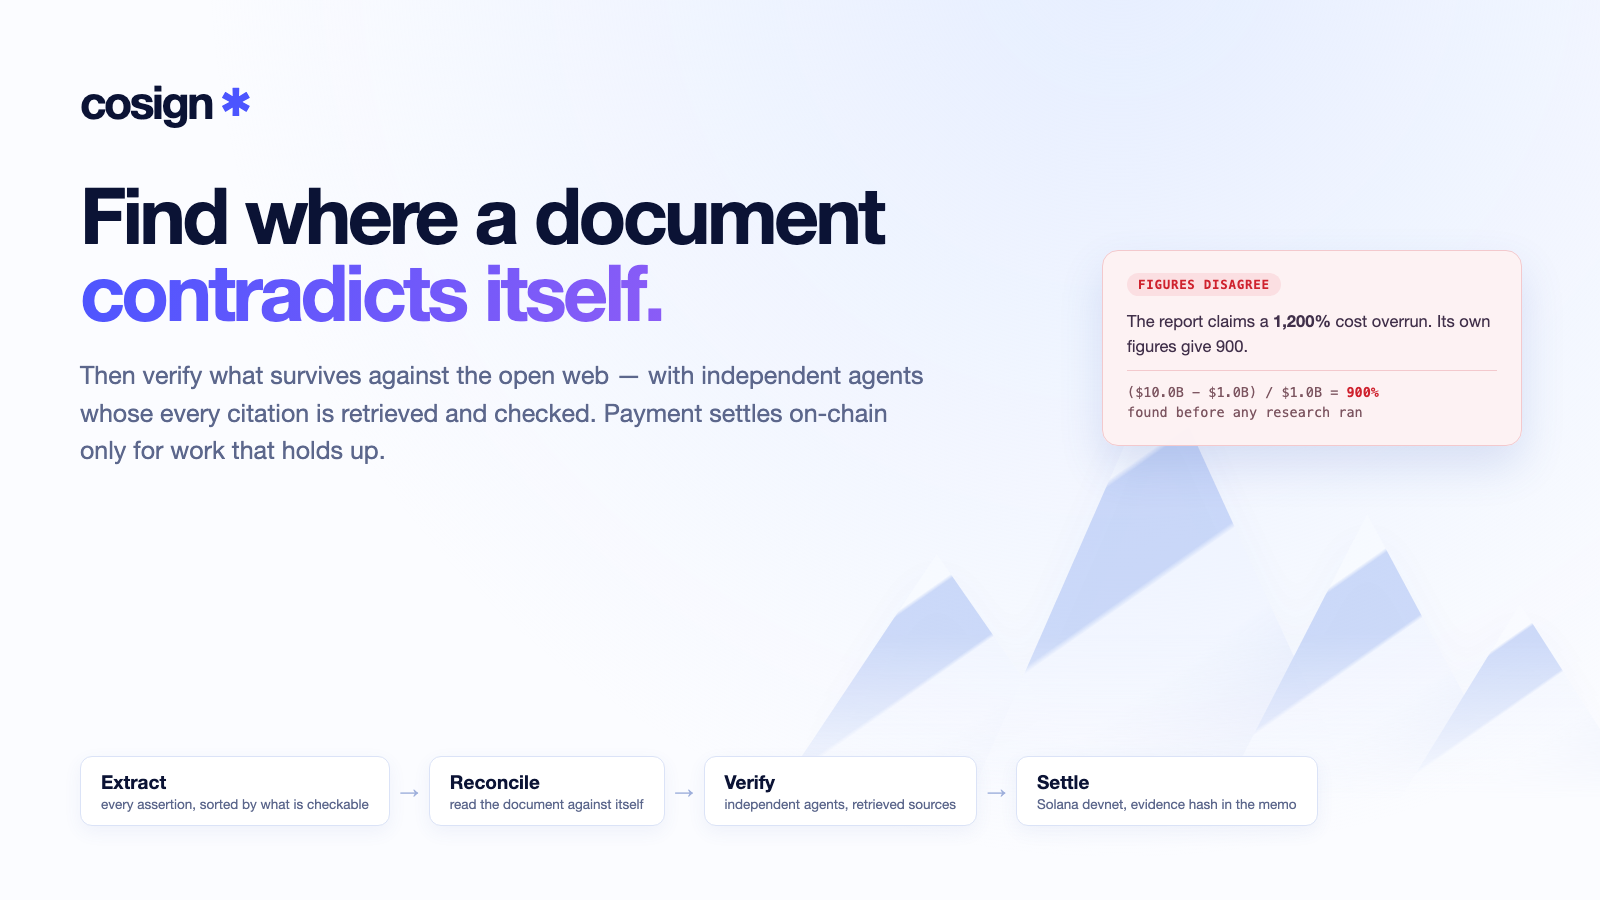
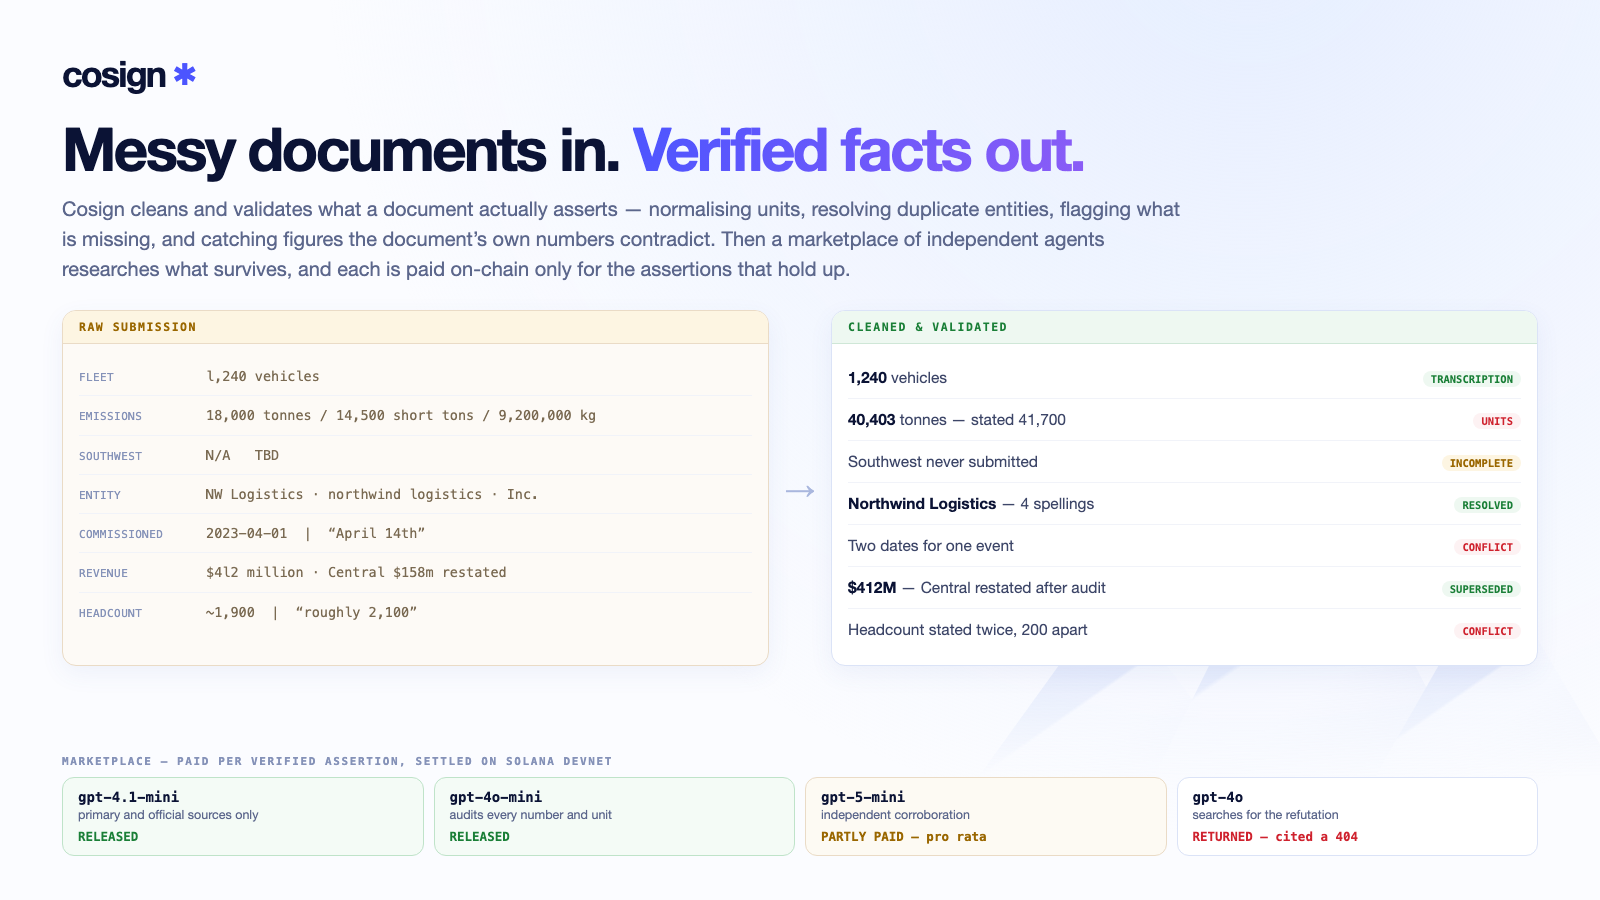
Make the cover show ingestion, cleaning and the marketplace
The previous cover led on one finding — a document contradicting itself —
which is a single capability rather than the system. It said nothing about
taking messy input, nothing about cleaning or validating it, and nothing
about the marketplace that does the research.

It now reads left to right as the thing actually does. A raw submission
holding the problems real operational records hold: a transcription error,
three units for one measure, cells that read N/A and TBD, four spellings of
one company, a restated figure, and two values each for a date and a
headcount. Beside it the same content cleaned and validated, every row
labelled with what was wrong: transcription, units, incomplete, resolved,
superseded, conflict.

Underneath, the marketplace: the four research lenses, and what each was
paid. Released, partly paid pro rata, and returned for citing a source that
404s — the outcomes the settlement path actually produces.

The panels use the contents of docs/samples/operations-pack.pdf rather than
invented examples. The agent row names outcome states rather than SOL
amounts, because the amounts I had came from separate runs and putting them
in one row would have shown a ledger that never existed.

diff --git a/docs/thumbnail.html b/docs/thumbnail.html
@@ -1,59 +1,98 @@
 <!doctype html><html><head><meta charset="utf-8"><style>
-:root { --primary:#4c55ff; --violet:#8b5cf6; --ink:#0b1335; --muted:#5c678c; --danger:#cf222e; }
-* { box-sizing: border-box; }
+:root { --primary:#4c55ff; --violet:#8b5cf6; --ink:#0b1335; --muted:#5c678c; --faint:#8592b8;
+  --danger:#cf222e; --amber:#9a6700; --green:#1a7f37; }
+* { box-sizing:border-box; }
 html,body { margin:0; padding:0; }
 body { width:1600px; height:900px; overflow:hidden; position:relative;
   font-family:-apple-system,"SF Pro Display","Helvetica Neue",Arial,sans-serif;
-  background: radial-gradient(circle at 70% -6%, #e6eeff 0, transparent 62%), #fbfcff; }
-.mountains { position:absolute; right:-3%; bottom:96px; width:56%; height:470px; opacity:.42;
-  filter: drop-shadow(0 18px 26px rgba(70,98,184,.10));
-  -webkit-mask-image: linear-gradient(to bottom, #000 64%, transparent 99%);
-  mask-image: linear-gradient(to bottom, #000 64%, transparent 99%); }
-.mountains i { position:absolute; bottom:0; clip-path: polygon(0 100%, 49% 0, 100% 100%);
-  background: linear-gradient(145deg, rgba(249,252,255,.96) 0 30%, rgba(133,164,237,.9) 31% 48%, rgba(235,241,255,.95) 49% 63%, rgba(117,145,224,.7)); }
-.mountains i:nth-child(1){ left:2%;  width:38%; height:250px; }
-.mountains i:nth-child(2){ left:24%; width:44%; height:440px; }
-.mountains i:nth-child(3){ left:52%; width:34%; height:290px; }
-.mountains i:nth-child(4){ left:72%; width:28%; height:200px; }
-.wrap { position:relative; z-index:2; padding:74px 80px; height:100%; display:flex; flex-direction:column; }
-.brand { display:flex; align-items:center; gap:9px; font-size:46px; font-weight:800; letter-spacing:-2.4px; color:var(--ink); }
-.brand b { color:var(--primary); font-weight:400; font-size:40px; }
-h1 { margin:46px 0 0; font-size:78px; line-height:.99; letter-spacing:-3.4px; color:var(--ink); max-width:1000px; font-weight:800; }
+  background: radial-gradient(circle at 78% -10%, #e6eeff 0, transparent 58%), #fbfcff; }
+.mountains { position:absolute; right:-6%; bottom:118px; width:46%; height:330px; opacity:.20;
+  -webkit-mask-image:linear-gradient(to bottom,#000 60%,transparent 99%); }
+.mountains i { position:absolute; bottom:0; clip-path:polygon(0 100%,49% 0,100% 100%);
+  background:linear-gradient(145deg,rgba(249,252,255,.96) 0 30%,rgba(133,164,237,.9) 31% 48%,rgba(235,241,255,.95) 49% 63%,rgba(117,145,224,.7)); }
+.mountains i:nth-child(1){ left:2%; width:38%; height:190px; }
+.mountains i:nth-child(2){ left:26%; width:44%; height:320px; }
+.mountains i:nth-child(3){ left:56%; width:34%; height:215px; }
+.wrap { position:relative; z-index:2; padding:52px 62px 44px; height:100%; display:flex; flex-direction:column; }
+.brand { display:flex; align-items:center; gap:8px; font-size:36px; font-weight:800; letter-spacing:-1.9px; color:var(--ink); }
+.brand b { color:var(--primary); font-weight:400; font-size:31px; }
+h1 { margin:22px 0 0; font-size:60px; line-height:1.02; letter-spacing:-2.6px; color:var(--ink); font-weight:800; }
 h1 span { background:linear-gradient(110deg,var(--primary),var(--violet)); -webkit-background-clip:text; background-clip:text; color:transparent; }
-.sub { margin:26px 0 0; max-width:860px; font-size:25px; line-height:1.5; color:var(--muted); }
-.steps { margin-top:auto; display:flex; gap:10px; align-items:center; }
-.step { padding:13px 20px; border:1px solid #dbe3f7; border-radius:12px; background:#fff; box-shadow:0 6px 18px rgba(70,98,184,.07);
-  font-size:19px; font-weight:650; color:var(--ink); }
-.step small { display:block; font-size:13.5px; font-weight:400; color:var(--muted); margin-top:2px; }
-.arrow { color:#9fb0dc; font-size:19px; }
-.finding { position:absolute; right:78px; top:250px; z-index:3; width:420px; padding:22px 24px;
-  border:1px solid #f3c9cd; border-radius:16px; background:rgba(253,242,243,.97);
-  box-shadow:0 20px 44px rgba(70,98,184,.16); }
-.finding .tag { display:inline-block; padding:4px 11px; border-radius:20px; background:#fbdfe2;
-  color:var(--danger); font:700 12.5px "SFMono-Regular",Consolas,monospace; letter-spacing:.7px; }
-.finding p { margin:13px 0 0; font-size:16.5px; line-height:1.5; color:#41304a; }
-.finding .math { margin-top:11px; padding-top:11px; border-top:1px solid #f3c9cd;
-  font:13.5px/1.55 "SFMono-Regular",Consolas,monospace; color:#7c5560; }
-.finding .math b { color:var(--danger); }
+.sub { margin:15px 0 0; max-width:1130px; font-size:20px; line-height:1.5; color:var(--muted); }
+.panels { display:flex; align-items:stretch; gap:16px; margin-top:26px; }
+.panel { flex:1; border:1px solid #dbe3f7; border-radius:14px; background:#fff; overflow:hidden;
+  box-shadow:0 8px 24px rgba(70,98,184,.07); }
+.panel.raw { background:#fdfaf6; border-color:#eadbc6; }
+.phead { padding:9px 16px; font:700 11.5px "SFMono-Regular",Consolas,monospace; letter-spacing:1.5px; border-bottom:1px solid #e7ecf8; }
+.raw .phead { color:var(--amber); background:#fdf5e2; border-bottom-color:#eadbc6; }
+.out .phead { color:var(--green); background:#eef8f1; border-bottom-color:#cfe7d7; }
+.rows { padding:13px 16px 15px; }
+.row { display:flex; align-items:baseline; gap:9px; padding:10px 0; font-size:15.5px; line-height:1.35; }
+.row + .row { border-top:1px solid #f1f3f9; }
+.k { flex:0 0 118px; font:11px "SFMono-Regular",Consolas,monospace; color:var(--faint); letter-spacing:.4px; }
+.v { color:#3d4668; }
+.raw .v { font-family:"SFMono-Regular",Consolas,monospace; font-size:13.5px; color:#7a6a52; }
+.out .v b { color:var(--ink); font-weight:650; }
+.tag { margin-left:auto; padding:2px 8px; border-radius:11px; font:600 10.5px "SFMono-Regular",Consolas,monospace; white-space:nowrap; }
+.t-fix { background:#eef8f1; color:var(--green); }
+.t-flag { background:#fdf5e2; color:var(--amber); }
+.t-bad { background:#fdf2f3; color:var(--danger); }
+.arrow { align-self:center; font-size:30px; color:#a9b7de; }
+.market { margin-top:auto; }
+.mlabel { font:700 11px "SFMono-Regular",Consolas,monospace; letter-spacing:1.6px; color:var(--faint); margin-bottom:9px; }
+.agents { display:flex; gap:10px; align-items:stretch; }
+.agent { flex:1; padding:11px 15px; border:1px solid #dbe3f7; border-radius:12px; background:#fff; }
+.agent.paid { border-color:#bfe3c9; background:#f4fbf6; }
+.agent .m { font:600 14px "SFMono-Regular",Consolas,monospace; color:var(--ink); }
+.agent .l { font-size:12.5px; color:var(--muted); margin-top:2px; }
+.agent .p { margin-top:7px; font:700 12.5px "SFMono-Regular",Consolas,monospace; }
+.agent.paid .p { color:var(--green); }
+.agent.part { border-color:#eadbc6; background:#fdfaf3; }
+.agent.part .p { color:var(--amber); }
+.agent.held .p { color:var(--danger); }
 </style></head><body>
-<div class="mountains"><i></i><i></i><i></i><i></i></div>
+<div class="mountains"><i></i><i></i><i></i></div>
 <div class="wrap">
   <div class="brand">cosign<b>&#10033;</b></div>
-  <h1>Find where a document<br><span>contradicts itself.</span></h1>
-  <p class="sub">Then verify what survives against the open web &mdash; with independent agents whose every citation is retrieved and checked. Payment settles on-chain only for work that holds up.</p>
-  <div class="steps">
-    <div class="step">Extract<small>every assertion, sorted by what is checkable</small></div>
+  <h1>Messy documents in. <span>Verified facts out.</span></h1>
+  <p class="sub">Cosign cleans and validates what a document actually asserts &mdash; normalising units, resolving duplicate entities, flagging what is missing, and catching figures the document&rsquo;s own numbers contradict. Then a marketplace of independent agents researches what survives, and each is paid on-chain only for the assertions that hold up.</p>
+
+  <div class="panels">
+    <div class="panel raw">
+      <div class="phead">RAW SUBMISSION</div>
+      <div class="rows">
+        <div class="row"><span class="k">FLEET</span><span class="v">l,240 vehicles</span></div>
+        <div class="row"><span class="k">EMISSIONS</span><span class="v">18,000 tonnes / 14,500 short tons / 9,200,000 kg</span></div>
+        <div class="row"><span class="k">SOUTHWEST</span><span class="v">N/A&nbsp;&nbsp;&nbsp;TBD</span></div>
+        <div class="row"><span class="k">ENTITY</span><span class="v">NW Logistics &middot; northwind logistics &middot; Inc.</span></div>
+        <div class="row"><span class="k">COMMISSIONED</span><span class="v">2023-04-01 &nbsp;|&nbsp; &ldquo;April 14th&rdquo;</span></div>
+        <div class="row"><span class="k">REVENUE</span><span class="v">$4l2 million &middot; Central $158m restated</span></div>
+        <div class="row"><span class="k">HEADCOUNT</span><span class="v">~1,900 &nbsp;|&nbsp; &ldquo;roughly 2,100&rdquo;</span></div>
+      </div>
+    </div>
     <div class="arrow">&rarr;</div>
-    <div class="step">Reconcile<small>read the document against itself</small></div>
-    <div class="arrow">&rarr;</div>
-    <div class="step">Verify<small>independent agents, retrieved sources</small></div>
-    <div class="arrow">&rarr;</div>
-    <div class="step">Settle<small>Solana devnet, evidence hash in the memo</small></div>
+    <div class="panel out">
+      <div class="phead">CLEANED &amp; VALIDATED</div>
+      <div class="rows">
+        <div class="row"><span class="v"><b>1,240</b> vehicles</span><span class="tag t-fix">TRANSCRIPTION</span></div>
+        <div class="row"><span class="v"><b>40,403</b> tonnes &mdash; stated 41,700</span><span class="tag t-bad">UNITS</span></div>
+        <div class="row"><span class="v">Southwest never submitted</span><span class="tag t-flag">INCOMPLETE</span></div>
+        <div class="row"><span class="v"><b>Northwind Logistics</b> &mdash; 4 spellings</span><span class="tag t-fix">RESOLVED</span></div>
+        <div class="row"><span class="v">Two dates for one event</span><span class="tag t-bad">CONFLICT</span></div>
+        <div class="row"><span class="v"><b>$412M</b> &mdash; Central restated after audit</span><span class="tag t-fix">SUPERSEDED</span></div>
+        <div class="row"><span class="v">Headcount stated twice, 200 apart</span><span class="tag t-bad">CONFLICT</span></div>
+      </div>
+    </div>
   </div>
-</div>
-<div class="finding">
-  <span class="tag">FIGURES DISAGREE</span>
-  <p>The report claims a <b>1,200%</b> cost overrun. Its own figures give 900.</p>
-  <div class="math">($10.0B &minus; $1.0B) / $1.0B = <b>900%</b><br>found before any research ran</div>
+
+  <div class="market">
+    <div class="mlabel">MARKETPLACE &mdash; PAID PER VERIFIED ASSERTION, SETTLED ON SOLANA DEVNET</div>
+    <div class="agents">
+      <div class="agent paid"><div class="m">gpt-4.1-mini</div><div class="l">primary and official sources only</div><div class="p">RELEASED</div></div>
+      <div class="agent paid"><div class="m">gpt-4o-mini</div><div class="l">audits every number and unit</div><div class="p">RELEASED</div></div>
+      <div class="agent part"><div class="m">gpt-5-mini</div><div class="l">independent corroboration</div><div class="p">PARTLY PAID &mdash; pro rata</div></div>
+      <div class="agent held"><div class="m">gpt-4o</div><div class="l">searches for the refutation</div><div class="p">RETURNED &mdash; cited a 404</div></div>
+    </div>
+  </div>
 </div>
 </body></html>
